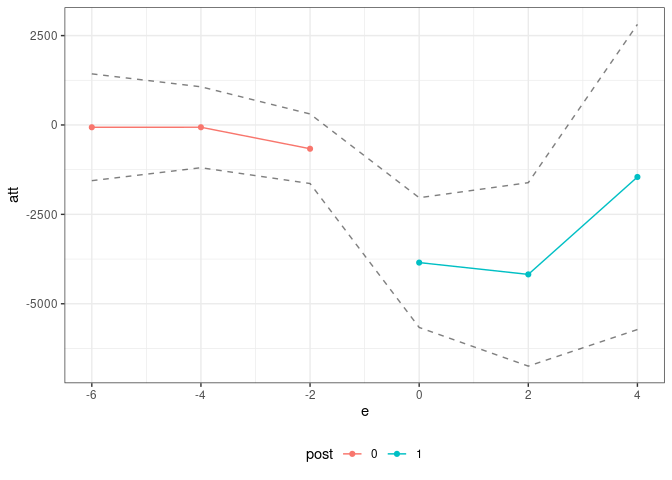
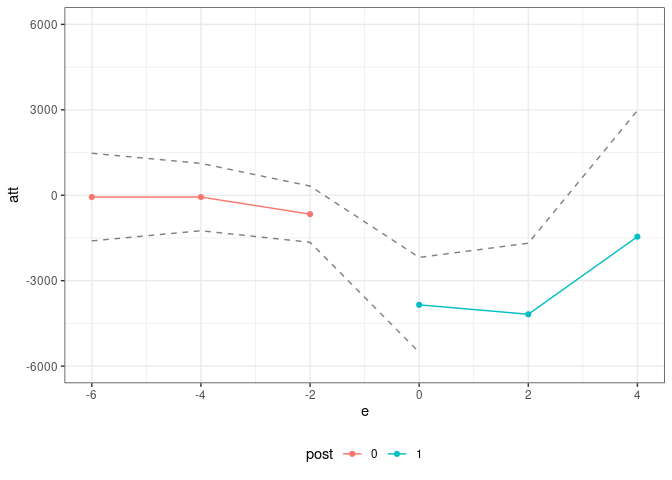
updated readme

diff --git a/README.md b/README.md
@@ -46,20 +46,20 @@ summary(res)
 #> 
 #> Overall ATT:  
 #>        ATT    Std. Error     [ 90%  Conf. Int.]  
-#>  -3913.851      1155.263   -5814.09   -2013.611 *
+#>  -3913.851      1134.183  -5779.416   -2048.285 *
 #> 
 #> 
 #> Dynamic Effects:
 #>  Event Time   Estimate Std. Error     [90%  Conf. Band]  
-#>          -6   -63.8360   908.0949 -1557.519   1429.8472  
-#>          -4   -63.4326   687.9885 -1195.073   1068.2078  
-#>          -2  -664.5203   591.3443 -1637.195    308.1545  
-#>           0 -3848.8739  1103.0442 -5663.220  -2034.5276 *
-#>           2 -4179.1319  1559.5926 -6744.433  -1613.8303 *
-#>           4 -1454.0791  2594.5413 -5721.720   2813.5616  
+#>          -6   -63.8360   935.2442 -1602.176   1474.5038  
+#>          -4   -63.4326   718.9872 -1246.061   1119.1961  
+#>          -2  -664.5203   599.9842 -1651.407    322.3659  
+#>           0 -3848.8739  1012.5293 -5514.336  -2183.4114 *
+#>           2 -4179.1319  1517.3515 -6674.953  -1683.3107 *
+#>           4 -1454.0791  2692.8549 -5883.431   2975.2730  
 #> ---
 #> Signif. codes: `*' confidence band does not cover 0
-ggpte(res)
+ggpte(res) + ylim(c(-6000,6000))
 ```
 
 <img src="man/figures/README-unnamed-chunk-4-1.png" width="100%" />
@@ -97,20 +97,20 @@ summary(lt_res)
 #> 
 #> Overall ATT:  
 #>        ATT    Std. Error     [ 90%  Conf. Int.]  
-#>  -3610.586      1306.883  -5760.217   -1460.954 *
+#>  -3610.586      1293.201  -5737.712   -1483.459 *
 #> 
 #> 
 #> Dynamic Effects:
 #>  Event Time   Estimate Std. Error     [90%  Conf. Band]  
-#>          -6   -80.0095   839.3591 -1460.632   1300.6134  
-#>          -4  -185.5270   726.5295 -1380.562   1009.5076  
-#>          -2  -659.0171   664.8853 -1752.656    434.6219  
-#>           0 -3751.3352  1122.3485 -5597.434  -1905.2361 *
-#>           2 -3869.5496  1780.7504 -6798.623   -940.4757 *
-#>           4  -376.1558  3081.4976 -5444.768   4692.4567  
+#>          -6   -80.0095   840.6203 -1462.707   1302.6878  
+#>          -4  -185.5270   742.5218 -1406.867   1035.8127  
+#>          -2  -659.0171   617.9471 -1675.450    357.4154  
+#>           0 -3751.3352  1226.3774 -5768.547  -1734.1238 *
+#>           2 -3869.5496  1793.1055 -6818.946   -920.1535 *
+#>           4  -376.1558  3158.6755 -5571.715   4819.4030  
 #> ---
 #> Signif. codes: `*' confidence band does not cover 0
-ggpte(lt_res)
+ggpte(lt_res) + ylim(c(-6000,6000))
 ```
 
 <img src="man/figures/README-unnamed-chunk-5-1.png" width="100%" />
